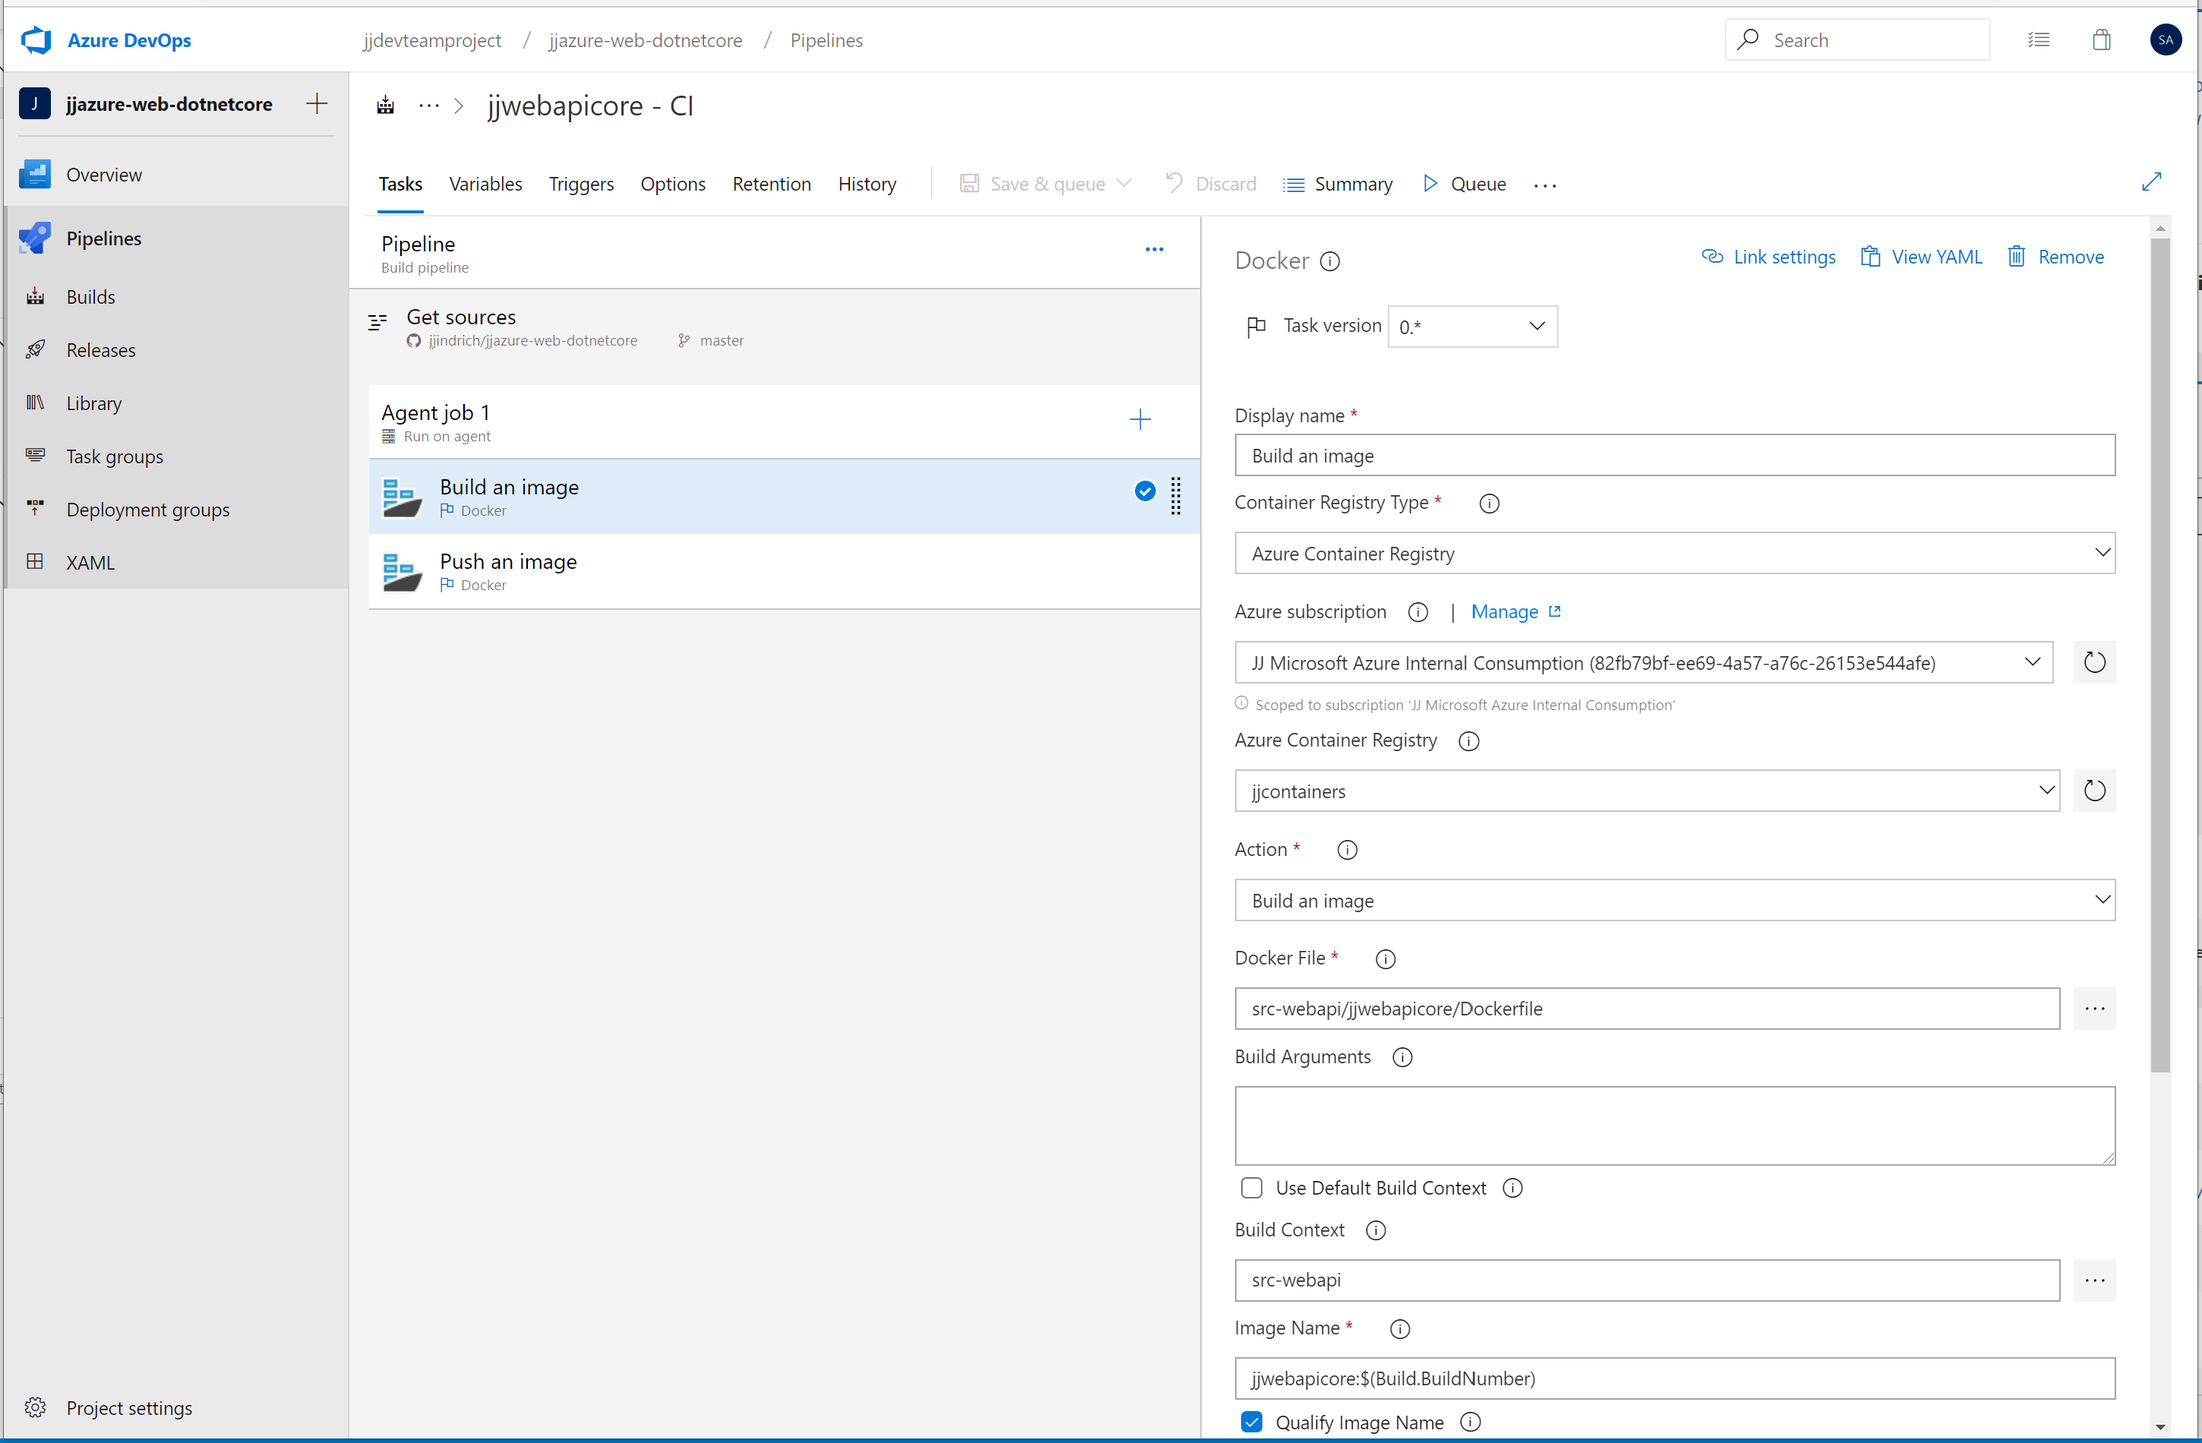
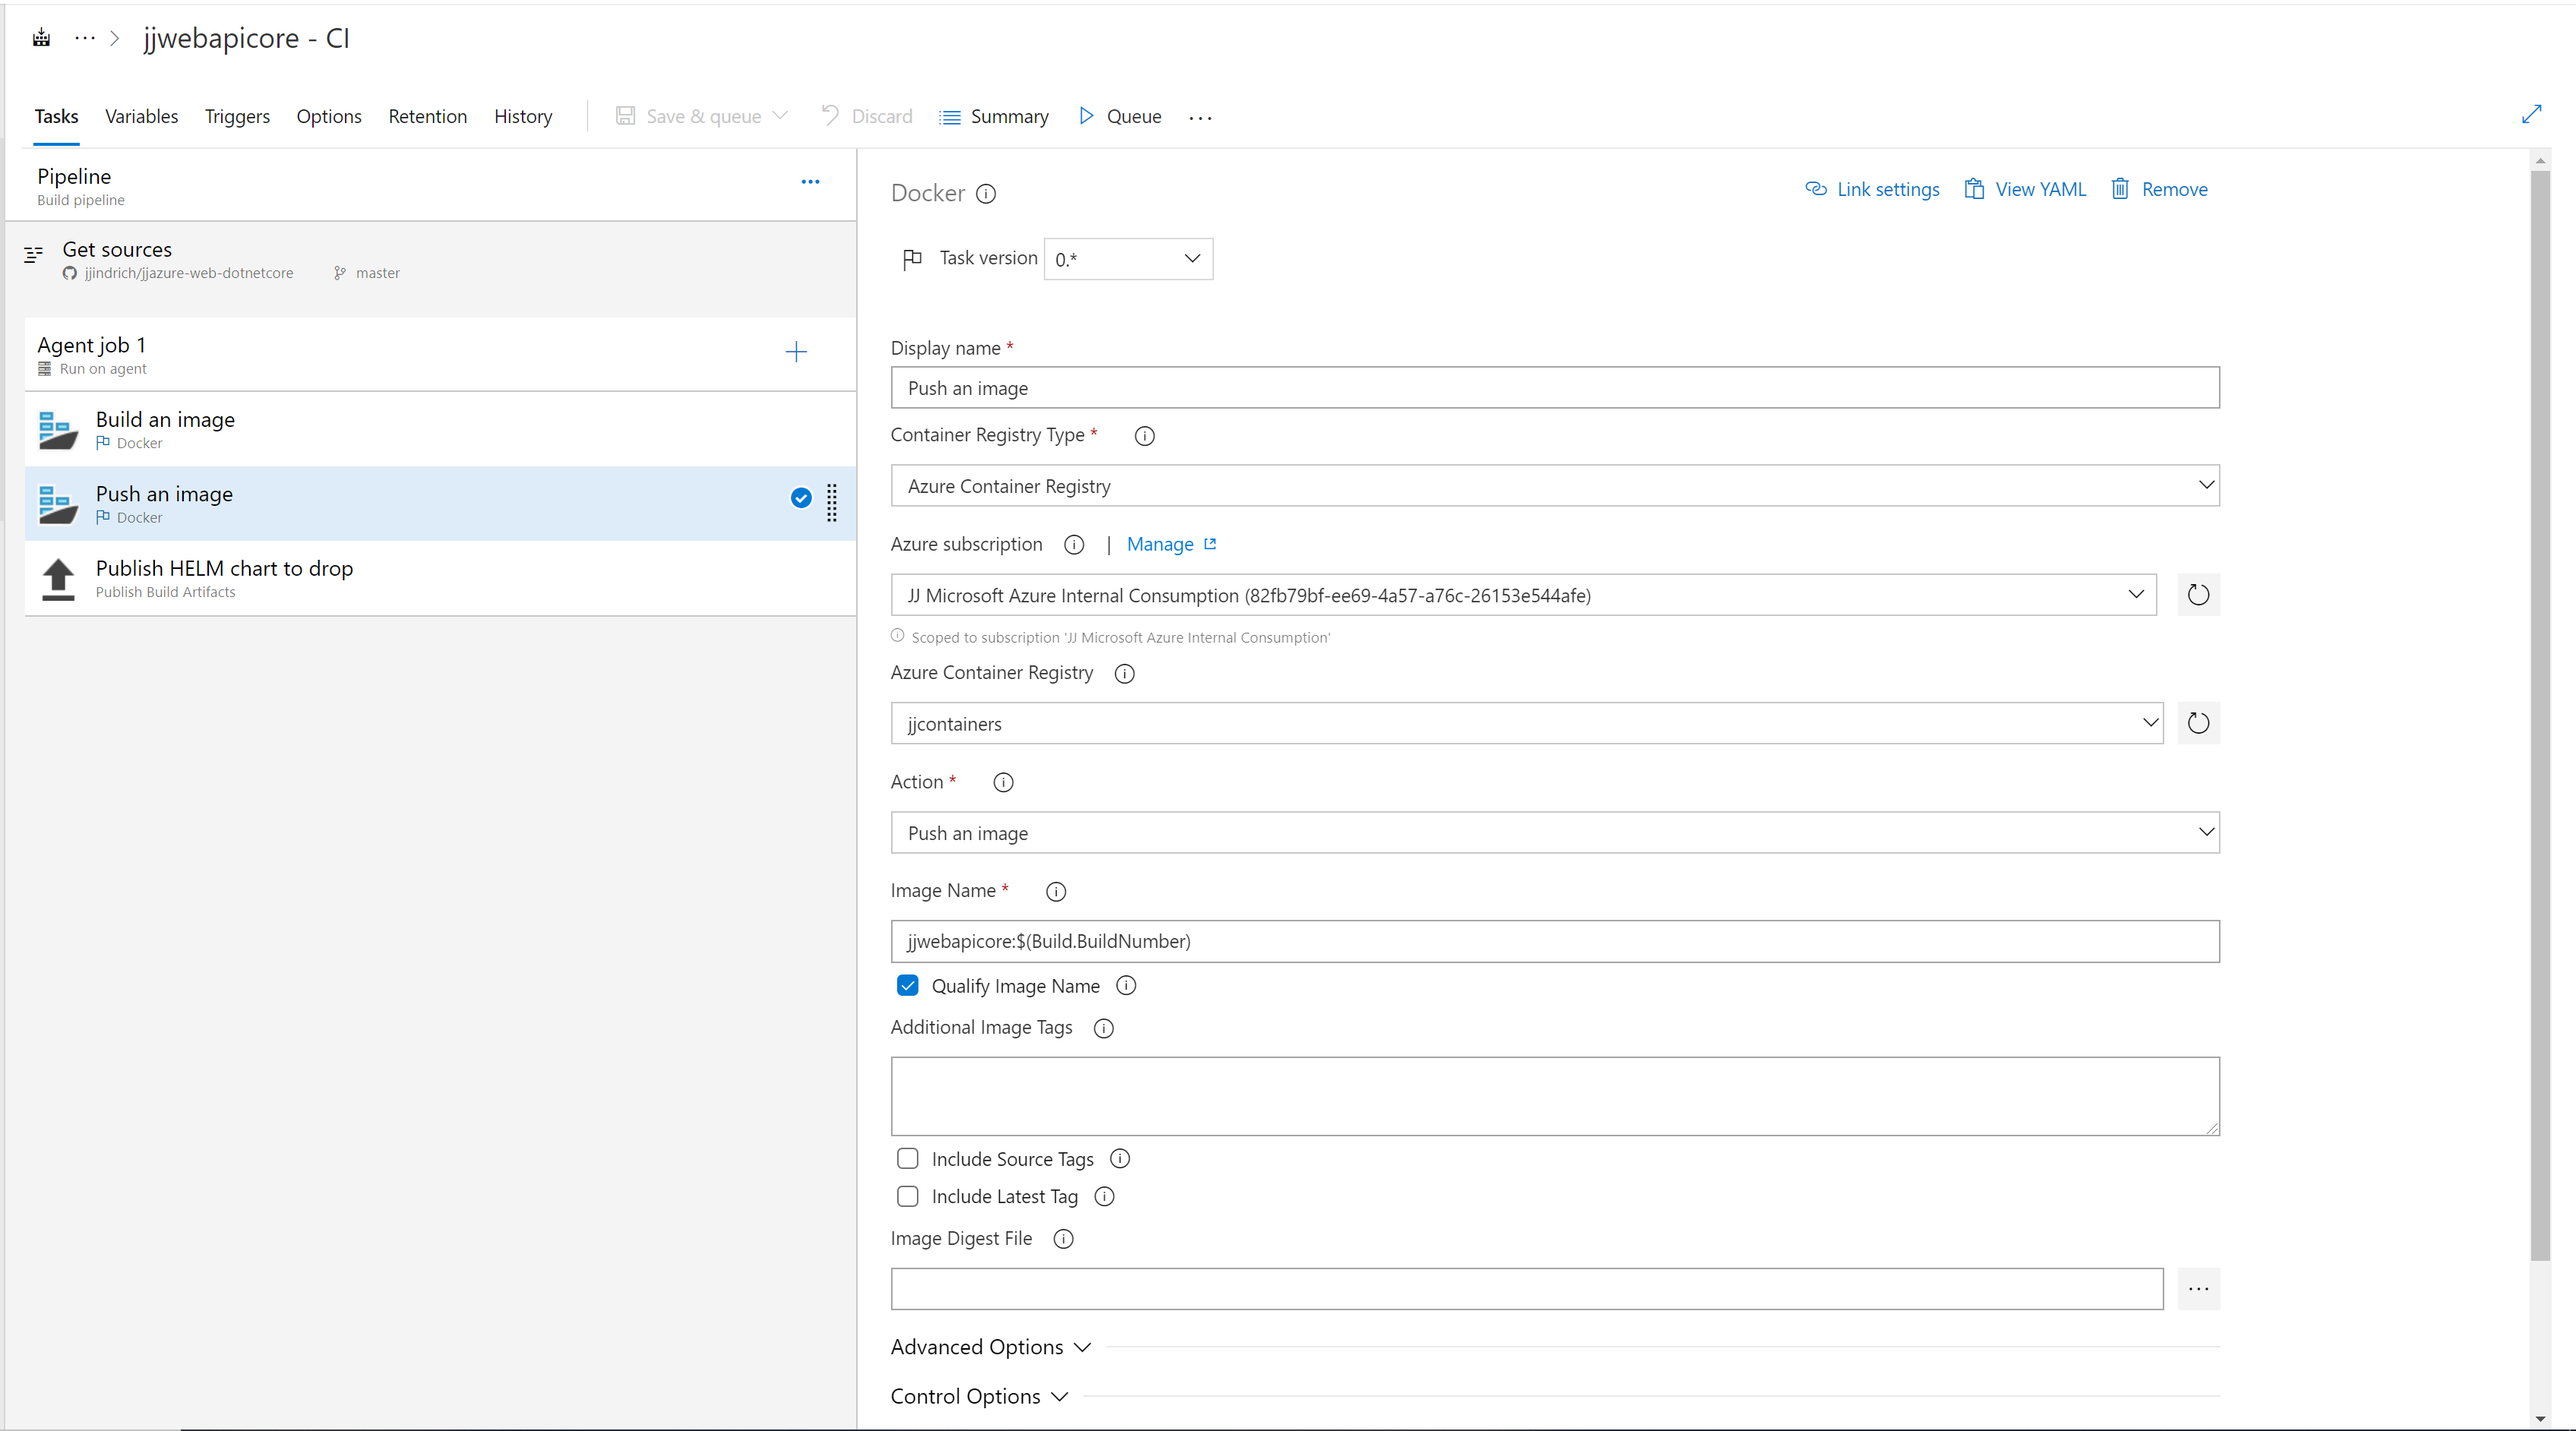
azure devops ci/cd webapicore

diff --git a/src-webapi/jjwebapicore/Controllers/ValuesController.cs b/src-webapi/jjwebapicore/Controllers/ValuesController.cs
@@ -14,7 +14,7 @@ namespace jjwebapicore.Controllers
         [HttpGet]
         public ActionResult<IEnumerable<string>> Get()
         {
-            return new string[] { "value1", "value2" };
+            return new string[] { "value11", "value22" };
         }
 
         // GET api/values/5

diff --git a/src-webapi/README.md b/src-webapi/README.md
@@ -44,8 +44,64 @@ Configure Azure Pipeline https://docs.microsoft.com/en-us/azure/devops/pipelines
 ### Build pipeline
 ![DevOps CI pipeline](media/devops-ci.png)
 
+```yaml
+pool:
+  name: Hosted Ubuntu 1604
+steps:
+- task: Docker@0
+  displayName: 'Build an image'
+  inputs:
+    azureSubscription: 'subscription'
+    azureContainerRegistry: '{"loginServer":"jjcontainers.azurecr.io", "id" : "/subscriptions/XXXXXXXXXXXXXXXXXX/resourceGroups/TEST/providers/Microsoft.ContainerRegistry/registries/jjcontainers"}'
+    dockerFile: 'src-webapi/jjwebapicore/Dockerfile'
+    defaultContext: False
+    context: 'src-webapi'
+    imageName: 'jjwebapicore:$(Build.BuildNumber)'
+
+- task: Docker@0
+  displayName: 'Push an image'
+  inputs:
+    azureSubscription: 'subscription'
+    azureContainerRegistry: '{"loginServer":"jjcontainers.azurecr.io", "id" : "/subscriptions/XXXXXXXXXXXXXXXXXX/resourceGroups/TEST/providers/Microsoft.ContainerRegistry/registries/jjcontainers"}'
+    action: 'Push an image'
+    imageName: 'jjwebapicore:$(Build.BuildNumber)'
+
+- task: PublishBuildArtifacts@1
+  displayName: 'Publish HELM chart to drop'
+  inputs:
+    PathtoPublish: 'src-webapi/jjwebapicore/charts'
+```
+
 ### Release pipeline
 
+**Authentication to AKS**
+Use Kubernetes Service Connection type Kubeconfig. The reason is RBAC enabled cluster. Is not supported to authenticate to AAD. You have to use admin account.
+
+How to get kubeconfig
+
+```
+az aks get-credentials -n $aksname -g jjmicroservices-rg --admin
+cat ~/.kube/config
+```
+
+![DevOps CD pipeline](media/devops-cd.png)
+
+```yaml
+steps:
+- task: HelmDeploy@0
+  displayName: 'helm upgrade'
+  inputs:
+    connectionType: 'Kubernetes Service Connection'
+    kubernetesServiceConnection: 'jjaks-admin'
+    namespace: default
+    command: upgrade
+    chartType: FilePath
+    chartPath: '$(System.DefaultWorkingDirectory)/_source/drop/jjwebapicore'
+    releaseName: jjwebapicore
+    overrideValues: 'image.repository=jjcontainers.azurecr.io/jjwebapicore,image.tag=$(build.buildNumber)'
+    valueFile: '$(System.DefaultWorkingDirectory)/_source/drop/jjwebapicore/values.yaml'
+    waitForExecution: false
+```
 
 ## Add Application Insights telemetry
 

diff --git a/README.md b/README.md
@@ -176,7 +176,7 @@ helm init --service-account tiller
 
 Problems with Tiller for Helm
 - run helm init tiller --upgrade
-- reinstal https://helm.sh/docs/using_helm/#deleting-or-reinstalling-tiller
+- reinstall https://helm.sh/docs/using_helm/#deleting-or-reinstalling-tiller
 
 #### 6. Setup permissions to Azure Container Registry
 
